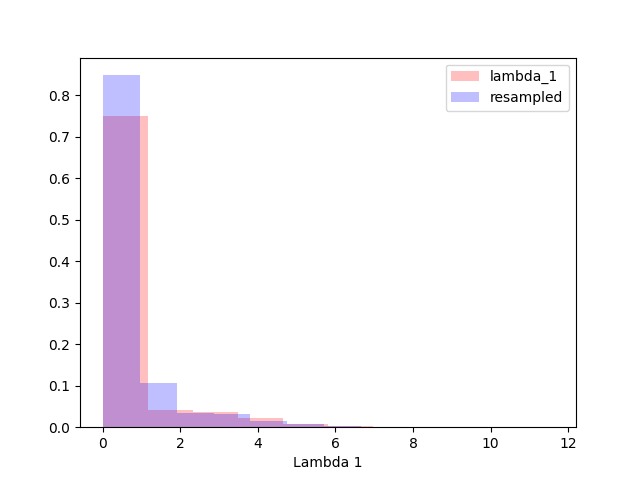
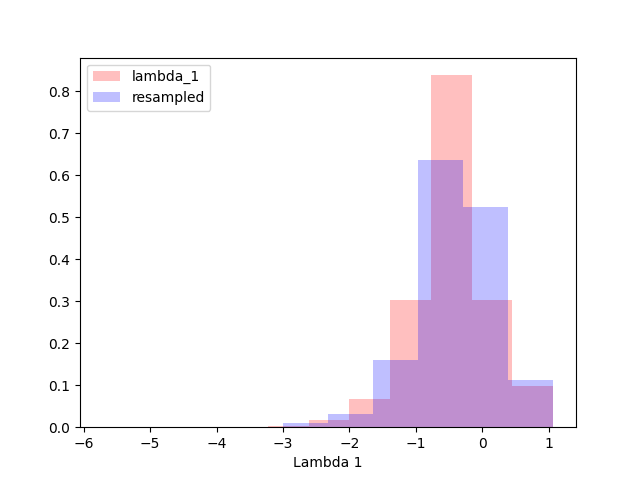
log scaled the lambdas plot but this time with -np.inf as lower bound.

diff --git a/year3/lastStretch/lambdaReflectionStudy/reflectionTests.py b/year3/lastStretch/lambdaReflectionStudy/reflectionTests.py
@@ -51,7 +51,8 @@ def method12():
     plt.hist(np.log10(resampledLambda1),density=True,color='blue',alpha=0.25,label="resampled")
     plt.legend()
     plt.xlabel("Lambda 1")
-    plt.savefig("low_zero_method12.png")
+    #plt.savefig("low_zero_method12.png")
+    plt.savefig("low_neginf_method12.png")
     # I think method 1 is already method 2 if kdedim=3. The only way to do method 1
     # as I thought would be to remove the boundary logic... I see why Anarya was surprised.
     # I had misunderstood that resample was part of an external functionality.
